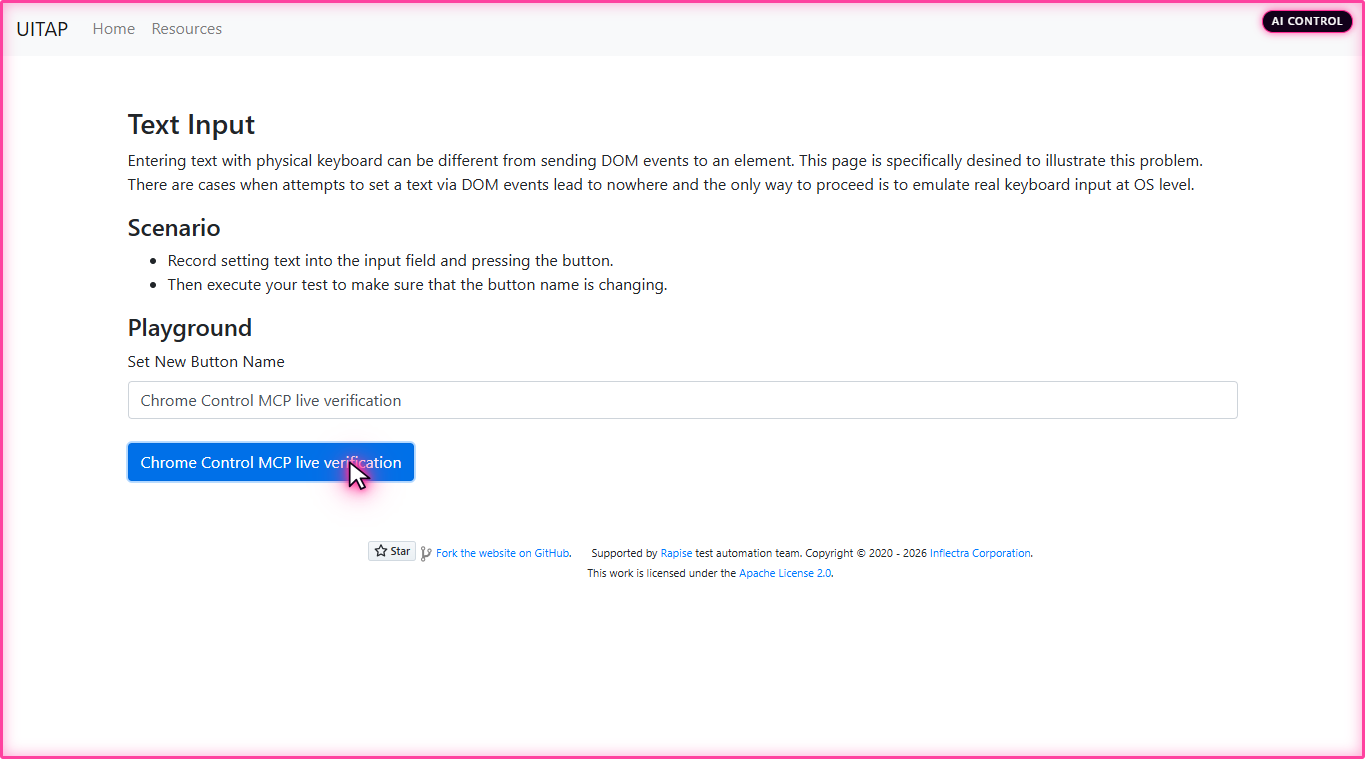
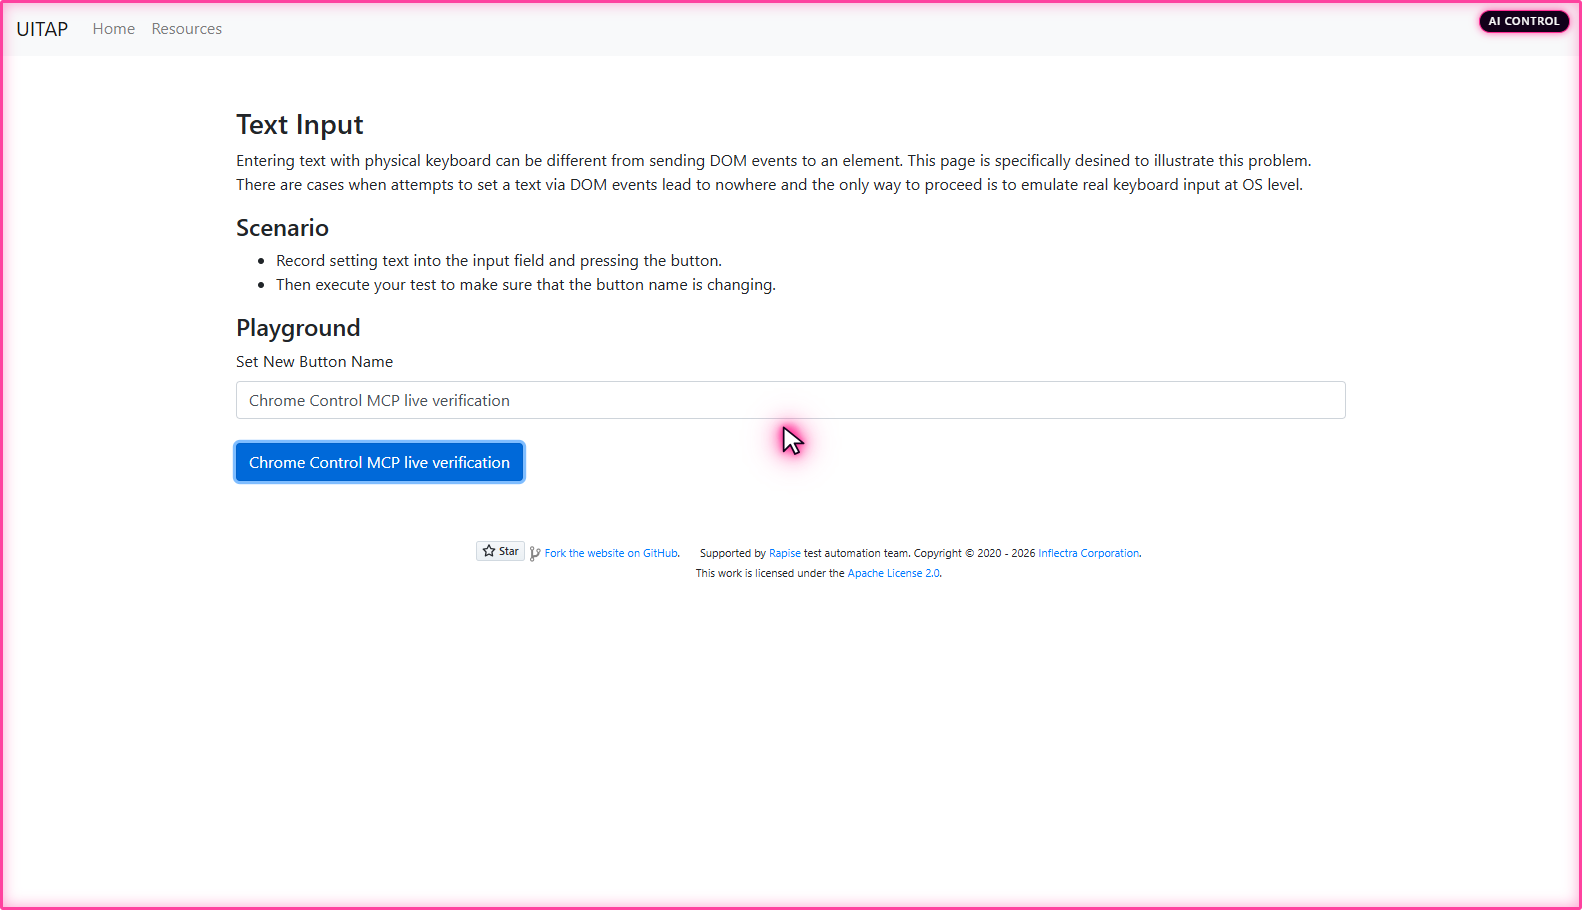
Say what recording actually shows, and retake the captures
browser_record_start told assistants that "Chrome shows its own recording
indicator while this runs". It does not. That note survived from the
chrome.tabCapture design, which was ruled out before any code was written
because it needs an activeTab grant an agent cannot supply. The frames come
from the debugger the session already holds, so there is no separate recording
indicator -- what Chrome shows is the debugging banner that is up for the whole
session, recording or not. docs/SECURITY.md had this right; the description a
model reads did not.

The README claimed a session "never takes your OS focus". It never ASKS for
focus, which is not the same thing: docs/VERIFICATION.md has recorded since
2026-09-18 that Hyprland focuses a newly mapped window regardless, and
browser_window new reports it as took_os_focus. The table now says that.

Recording and multi-session were in the capability table and nowhere else, so
the README gained the tool names, what browser_record_stop returns and why the
video cannot come back through a reply, how a second editor gets a tab, and
what browser_tabs marks when another session holds one.

Both screenshots retaken. They were three weeks old, and the same file was used
twice -- once as the hero and again as the first cell of "See it work". The new
pair was captured by two servers attached at the same time, one driving the
public playground and one driving the local E2E fixture in a tab of its own,
[…]

diff --git a/src/browser_contract.cpp b/src/browser_contract.cpp
@@ -1665,8 +1665,10 @@ void appendRecordTools(QJsonArray &tools) {
           "video never comes back through a tool reply. filename is optional "
           "and must be a relative name (no absolute path, no \"..\"). "
           "Starting a second recording for the same session is refused; stop "
-          "the first. Chrome shows its own recording indicator while this "
-          "runs."),
+          "the first. Frames come from the debugger this session already "
+          "holds, so Chrome raises no separate recording indicator: what "
+          "it shows is the debugging banner that is up for the whole "
+          "session, recording or not."),
       toolSchema(
           QJsonObject{
               {QStringLiteral("filename"),

diff --git a/README.md b/README.md
@@ -31,33 +31,55 @@ page overlay by default; documentation captures can opt in.
 
 ## Why this project
 
-| Capability           | Included                                                                                                         |
-| -------------------- | ---------------------------------------------------------------------------------------------------------------- |
-| Works beside you     | Session drives its own visible tab; never changes which tab is in front, raises a window, or takes your OS focus |
-| Semantic control     | Accessibility-tree snapshots with stable element refs                                                            |
-| Real input           | Click, type, keys, hover, drag, select, scroll, dialogs, and media                                               |
-| File upload          | Attach local files to a page's file input, as the user's own picker would                                        |
-| Visual reasoning     | Viewport/full-page PNG capture and guarded coordinate clicks                                                     |
-| Browser management   | Navigation, tabs, tab groups, windows, emulation, and waits                                                      |
-| Browser state        | Cookies, local/session storage, permissions, downloads, print, and HTTP auth                                     |
-| A session per editor | Several editors drive Chrome at once, each owning its own tab and unable to touch another's                      |
-| Tab recording        | Record the session's tab to a `.webm` with a machine-readable timeline of the commands that ran                  |
-| Extension lifecycle  | Prepare, inspect, and unregister current-user native-host integration                                            |
-| In-place updates     | Check, download, verify, and install a new release without overwriting the running executable                    |
+| Capability           | Included                                                                                                                                                                                                            |
+| -------------------- | ------------------------------------------------------------------------------------------------------------------------------------------------------------------------------------------------------------------- |
+| Works beside you     | Session drives its own visible tab and never changes which tab is in front, raises a window, or asks for OS focus. `browser_window new` reports `took_os_focus` when a compositor focuses the new window regardless |
+| Semantic control     | Accessibility-tree snapshots with stable element refs                                                                                                                                                               |
+| Real input           | Click, type, keys, hover, drag, select, scroll, dialogs, and media                                                                                                                                                  |
+| File upload          | Attach local files to a page's file input, as the user's own picker would                                                                                                                                           |
+| Visual reasoning     | Viewport/full-page PNG capture and guarded coordinate clicks                                                                                                                                                        |
+| Browser management   | Navigation, tabs, tab groups, windows, emulation, and waits                                                                                                                                                         |
+| Browser state        | Cookies, local/session storage, permissions, downloads, print, and HTTP auth                                                                                                                                        |
+| A session per editor | Several editors drive Chrome at once, each owning its own tab and unable to touch another's                                                                                                                         |
+| Tab recording        | Record the session's tab to a `.webm` with a machine-readable timeline of the commands that ran                                                                                                                     |
+| Extension lifecycle  | Prepare, inspect, and unregister current-user native-host integration                                                                                                                                               |
+| In-place updates     | Check, download, verify, and install a new release without overwriting the running executable                                                                                                                       |
 
 All **49 MCP tools** use strict JSON Schemas. Long-lived MCP process preserves session and
-element-ref state while Chrome remains an ordinary user-controlled browser. Since 1.5.0 several
-servers run side by side -- one per editor window -- and each gets its own session, its own tab, and
-no way to reach another session's tab.
+element-ref state while Chrome remains an ordinary user-controlled browser.
+
+Since 1.5.0 several servers run side by side -- one per editor window -- and each gets its own
+session, its own tab, and no way to reach another session's tab. A second editor takes a tab the
+normal way: `browser_new_tab` opens one in the background and makes it that session's. Asking for a
+tab another session is driving is refused by name, so "busy" reads differently from "gone", and
+`browser_tabs` marks such a tab `controlled_by_other_session` rather than hiding it -- the operator
+sees the whole window either way. The constraints that shaped this, and the ones that ruled other
+designs out, are in [docs/MULTI_SESSION.md](docs/MULTI_SESSION.md).
+
+Recording a run is two tools:
+
+```text
+browser_record_start    begin recording the session's tab to a .webm
+browser_record_stop     end it, and return the saved path and a command timeline
+```
+
+The video never comes back through a tool reply -- the bridge is one command, one reply, with hard
+caps on the reply -- so stop returns a path. Beside the `.webm` it writes a `.timeline.json` naming
+every command that ran while recording, with its offset in milliseconds, so the video can be read
+against what drove it.
 
 ## See it work
 
-| Public UI test site                                                                                         | Responsive E2E fixture                                                                                                                        |
-| ----------------------------------------------------------------------------------------------------------- | --------------------------------------------------------------------------------------------------------------------------------------------- |
-| ![Text Input test controlled through Chrome Control MCP](docs/assets/chrome-control-overlay-playground.png) | ![Chrome Control MCP exercising form, pointer, and dialog controls in its local test fixture](docs/assets/chrome-control-overlay-fixture.png) |
-| Navigation, snapshot, typing, read-back, ref click, and screenshot                                          | Form state, coordinate click, hover, drag, dialog handling, and control presence                                                              |
+![Chrome Control MCP driving its local E2E fixture from a second session, with the same pink frame and AI CONTROL badge](docs/assets/chrome-control-overlay-fixture.png)
 
-Both images are direct `browser_screenshot` results from live extension, not mockups.
+The two captures on this page were taken **at the same time, by two different MCP servers**. The
+first drove the public playground: navigation, snapshot, typing, read-back, a ref click, and the
+screenshot itself. The second opened a tab of its own on the local E2E fixture and typed into it —
+the text reading `second session` is its work — while the first went on driving the playground and
+neither could touch the other's tab.
+
+Both are direct `browser_screenshot` results from the live extension with
+`include_control_overlay`, not mockups.
 
 > **Testing shout-out:** Inflectra's [UI Test Automation Playground](http://uitestingplayground.com/)
 > and [open-source repository](https://github.com/inflectra/ui-test-automation-playground) provide
@@ -191,7 +213,10 @@ browser_update_apply    install it
 ```
 
 `browser_update_status` touches no network. The executable also answers `--version`, and `--install`
-puts a copy into the managed layout without an MCP client in the loop.
+puts a copy into the managed layout without an MCP client in the loop. `--install` reports
+`installed: true` or `false`: it copies nothing when that version is already installed and already
+current, which is the normal case on every editor start, and a rebuilt tree of the same version
+needs a new version number rather than a second install.
 
 A running executable cannot be overwritten on Windows, so the update never tries to. Each version
 is installed into `<root>/versions/<version>` and a `current` link -- a directory junction on
@@ -260,6 +285,15 @@ CHROME_CONTROL_MCP_REDACT_SENSITIVE_OUTPUT=true
 Read-only profile exposes 12 tools and independently rejects hidden mutating calls.
 `browser_update_apply` is not among them: it replaces the program on disk, which is a mutation
 whatever the browser profile says.
+
+Recording is not an escalation. `browser_record_start` captures frames through the `debugger`
+permission the extension already holds and already uses for every click and snapshot, not through
+`tabCapture`, and it grants nothing the session could not already do. It records the session's own
+tab only, and a session that ends mid-recording has its partial file discarded rather than finished
+-- a truncated video presented as a complete one would be worse than no file. There is no separate
+recording indicator, because the frames come from the debugger rather than from `tabCapture`; what
+Chrome shows is the debugging banner that is up for the whole session, recording or not. The permission set is documented in
+[docs/SECURITY.md](docs/SECURITY.md).
 
 ## Verification
 

diff --git a/CHANGELOG.md b/CHANGELOG.md
@@ -4,7 +4,23 @@ All notable changes are documented here. Project follows [Semantic Versioning](h
 
 ## [Unreleased]
 
-Nothing yet.
+### Fixed
+
+- `browser_record_start` told assistants that "Chrome shows its own recording indicator while this
+  runs". It does not, and never did on the path that shipped: the note survived from the
+  `tabCapture` design that was ruled out before any code was written. Frames come from the debugger
+  the session already holds, so there is no separate recording indicator -- what Chrome shows is the
+  debugging banner that is up for the whole session, recording or not. `docs/SECURITY.md` had this
+  right; the tool description a model reads did not.
+
+### Changed
+
+- README: the claim that a session "never takes your OS focus" is now what the code actually
+  promises -- it never asks for focus, and `browser_window new` reports `took_os_focus` when a
+  compositor focuses the new window regardless, which `docs/VERIFICATION.md` has recorded on
+  Hyprland since 2026-09-18. Recording and multi-session gained the tool names and behaviour the
+  capability table only alluded to, and the two screenshots were retaken -- concurrently, by two
+  servers, which is what makes them evidence of multi-session rather than two separate captures.
 
 ## [1.5.2] - 2026-09-23
 
